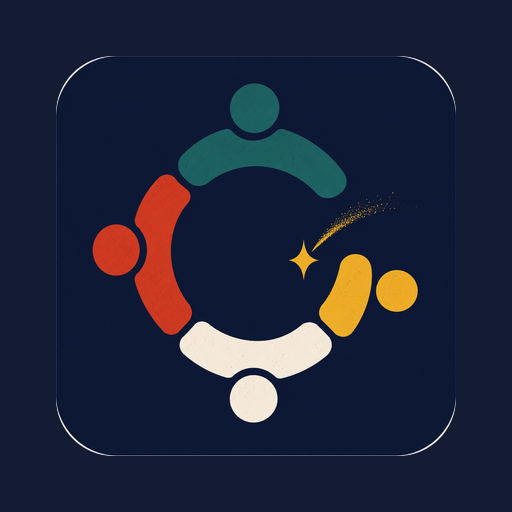
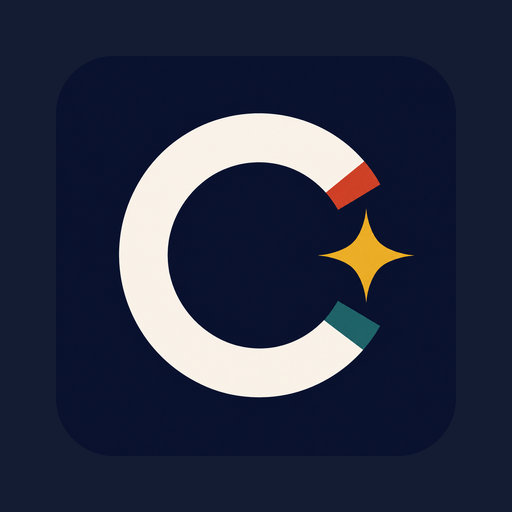
Refresh the Vancouver Curiosity Club mark

diff --git a/design-assets/README.md b/design-assets/README.md
@@ -3,6 +3,9 @@
 `brand-icon-master.png` is the canonical raster source for the Vancouver
 Curiosity Club mark. Do not edit generated public icons independently.
 
+The open circle represents an available place in the community; the amber
+spark crossing its opening represents curiosity entering the conversation.
+
 After an approved replacement, run:
 
 ```powershell
